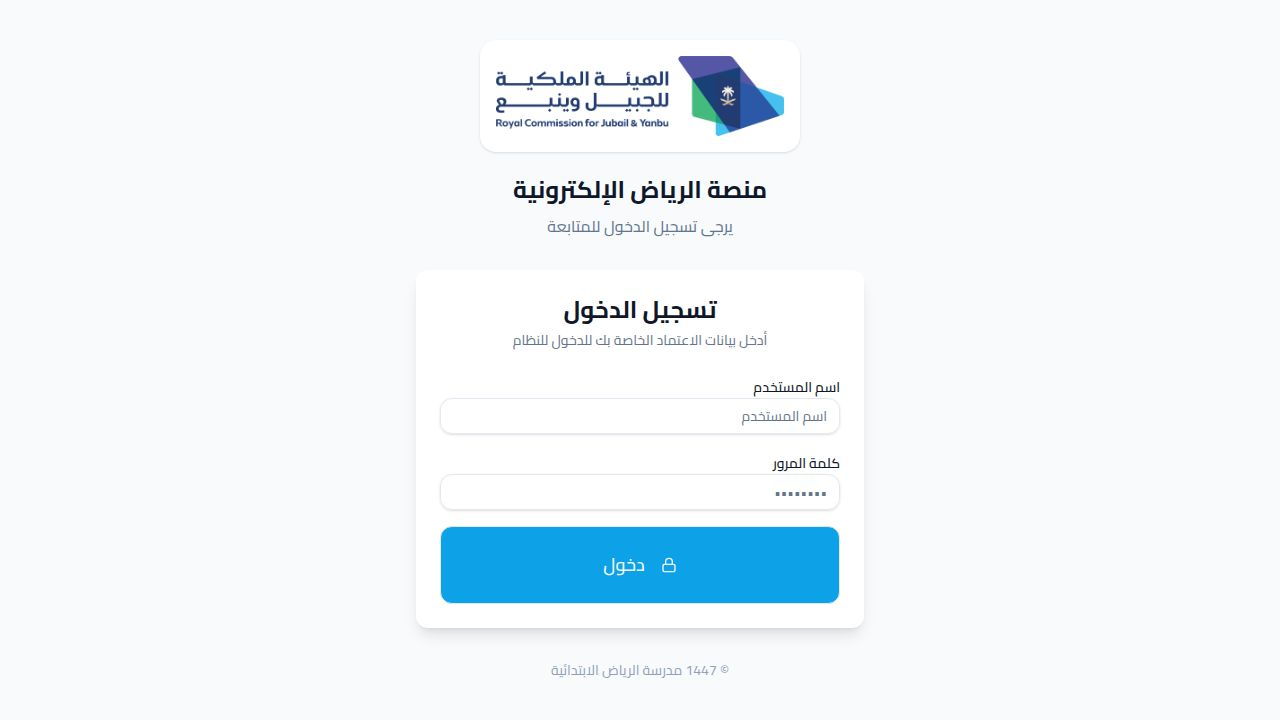
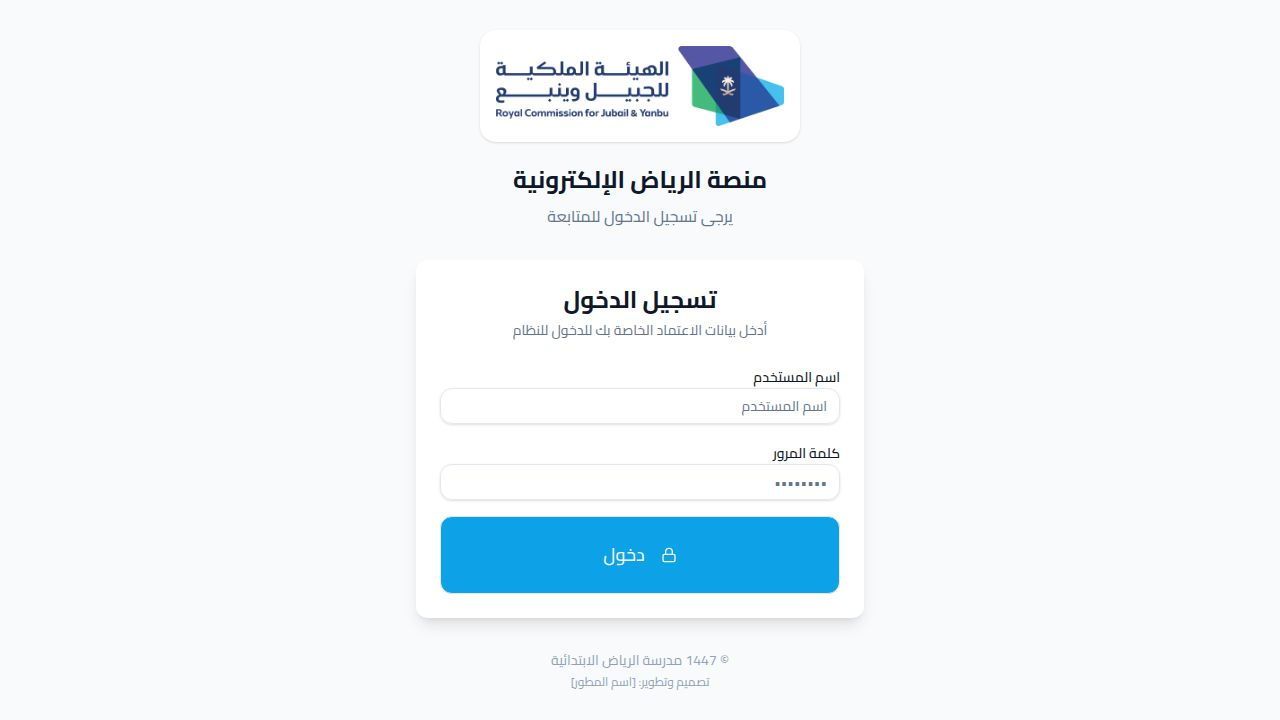
Add developer signature to website footer and login page
Add "Designed and developed by: [Developer Name]" to the footer of the dashboard and login pages.

Replit-Commit-Author: Agent
Replit-Commit-Session-Id: dbf1b98b-9e56-452a-9471-44f18162771e
Replit-Commit-Checkpoint-Type: full_checkpoint
Replit-Commit-Event-Id: da4600eb-cd6e-4101-ba54-173c71a962f3
Replit-Commit-Screenshot-Url: https://storage.googleapis.com/screenshot-production-us-central1/0d354618-351a-42c6-b069-c837ad90f3dc/dbf1b98b-9e56-452a-9471-44f18162771e/q9i2Qlc
Replit-Helium-Checkpoint-Created: true

diff --git a/client/src/pages/dashboard.tsx b/client/src/pages/dashboard.tsx
@@ -212,6 +212,7 @@ export default function Dashboard() {
       <footer className="bg-white border-t border-slate-200 py-8 mt-12">
         <div className="container mx-auto px-4 text-center text-slate-500">
           <p>© 1447 مدرسة الرياض الابتدائية - جميع الحقوق محفوظة</p>
+          <p className="text-sm mt-2 text-slate-400">تصميم وتطوير: [اسم المطور]</p>
         </div>
       </footer>
     </div>

diff --git a/client/src/pages/login.tsx b/client/src/pages/login.tsx
@@ -91,6 +91,8 @@ export default function Login() {
         
         <p className="text-center text-sm text-slate-400 mt-8">
           © 1447 مدرسة الرياض الابتدائية
+          <br />
+          <span className="text-xs mt-1 block">تصميم وتطوير: [اسم المطور]</span>
         </p>
       </div>
     </div>
